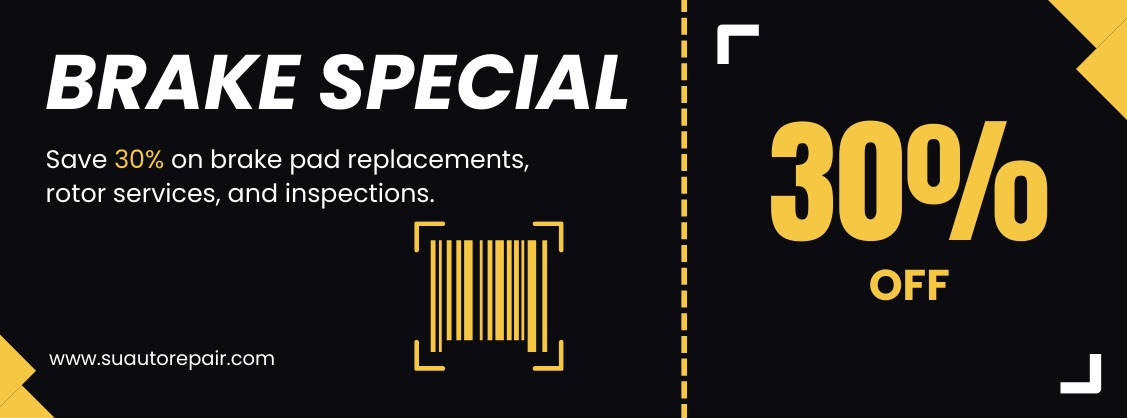
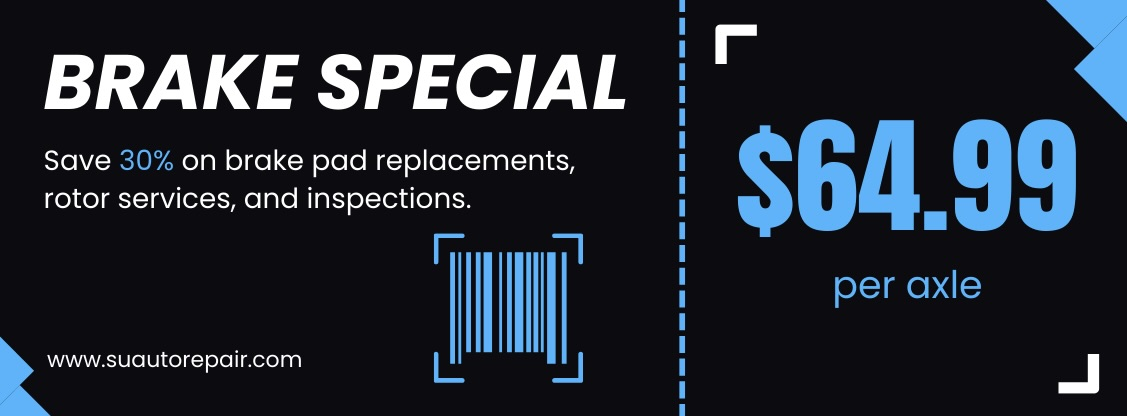
add reviews and update discount

diff --git a/index.js b/index.js
@@ -92,40 +92,40 @@ function closeImageModal() {
 }
 
 // get reviews from google maps
-const apiKey = 'AIzaSyBAXAUWzUuCzyvq3lh7APjS-nRRJ8S_K4Y';
-    const placeId = 'ChIJWyLqWIvnj4AReKlLSIV7sgE';
+// const apiKey = 'AIzaSyBAXAUWzUuCzyvq3lh7APjS-nRRJ8S_K4Y';
+// const placeId = 'ChIJWyLqWIvnj4AReKlLSIV7sgE';
 
-    async function fetchReviews() {
-        try {
-            const response = await fetch(`https://maps.googleapis.com/maps/api/place/details/json?place_id=${placeId}&fields=reviews&key=${apiKey}`);
-            const data = await response.json();
+//     async function fetchReviews() {
+//         try {
+//             const response = await fetch(`https://maps.googleapis.com/maps/api/place/details/json?place_id=${placeId}&fields=reviews&key=${apiKey}`);
+//             const data = await response.json();
 
-            if (data.result && data.result.reviews) {
-                displayReviews(data.result.reviews);
-            } else {
-                document.getElementById('reviews-container').innerText = 'No reviews available';
-            }
-        } catch (error) {
-            console.error('Error fetching reviews:', error);
-        }
-    }
+//             if (data.result && data.result.reviews) {
+//                 displayReviews(data.result.reviews);
+//             } else {
+//                 document.getElementById('reviews-container').innerText = 'No reviews available';
+//             }
+//         } catch (error) {
+//             console.error('Error fetching reviews:', error);
+//         }
+//     }
 
-    function displayReviews(reviews) {
-        const container = document.getElementById('reviews-container');
-        container.innerHTML = '';
+//     function displayReviews(reviews) {
+//         const container = document.getElementById('reviews-container');
+//         container.innerHTML = '';
 
-        reviews.slice(0, 4).forEach(review => {
-            const reviewCard = document.createElement('div');
-            reviewCard.className = 'review-card';
+//         reviews.slice(0, 4).forEach(review => {
+//             const reviewCard = document.createElement('div');
+//             reviewCard.className = 'review-card';
 
-            reviewCard.innerHTML = `
-                <div class="review-author">${review.author_name}</div>
-                <div class="review-rating">${'★'.repeat(review.rating)}${'☆'.repeat(5 - review.rating)}</div>
-                <div class="review-text">${review.text}</div>
-            `;
+//             reviewCard.innerHTML = `
+//                 <div class="review-author">${review.author_name}</div>
+//                 <div class="review-rating">${'★'.repeat(review.rating)}${'☆'.repeat(5 - review.rating)}</div>
+//                 <div class="review-text">${review.text}</div>
+//             `;
 
-            container.appendChild(reviewCard);
-        });
-    }
+//             container.appendChild(reviewCard);
+//         });
+//     }
 
-    fetchReviews();
+//     fetchReviews();

diff --git a/index.html b/index.html
@@ -84,7 +84,6 @@
           <img src="images/oil service coupon.jpeg" alt="Oil Change Discount" />
           <h3>Oil Change Discount</h3>
           <p>Synthetic blend only for <strong>$29.99</strong> (excludes sales tax, disposal fee)</p>
-          <p>Use Code: OIL10</p>
         </div>
         <div
           class="coupon"
@@ -92,18 +91,20 @@
           <img src="images/brake coupon.jpeg" alt="Brake Service Discount" />
           <h3>Brake Service Discount</h3>
           <p><strong>$64.99</strong> per axle, plus parts!</p>
-          <p>Use Code: BRAKE15</p>
         </div>
       </div>
     </section>
-
-    <h2>Google Reviews</h2>
-    <div class="reviews-container" id="reviews-container"></div>
-
     <!-- Image Modal -->
     <div id="imageModal" class="modal" onclick="closeImageModal()">
-      <span class="close">&times;</span>
-      <img class="modal-content" id="modalImage" />
+        <span class="close">&times;</span>
+        <img class="modal-content" id="modalImage" />
+    </div>
+
+    <div class="reviews-container" id="reviews">
+        <h2>Read our reviews!</h2>
+        <div data-instance-id="72TM518SrebLI7Wgr7Qh">
+            <script src="https://reviews.beaver.codes/widget/web-google-reviews.js" async="true"></script>
+        </div>
     </div>
 
     <div class="info-container" id="location">
@@ -128,6 +129,7 @@
             <p>&copy; 2024 Springtown Union Auto Repair. All rights reserved.</p>
           </div>
     </footer>
+
     <script src="index.js"></script>
 </body>
 </html>

diff --git a/styles.css b/styles.css
@@ -11,6 +11,7 @@ body {
     width: 100%;
     overflow-x: hidden;
     color: #333;
+    background-color: #f9f9f9;
 }
 .container {
     display: flex;
@@ -424,34 +425,20 @@ body {
 
 /* reviews */
 .reviews-container {
-    display: flex;
-    flex-wrap: wrap;
-    gap: 20px;
-    justify-content: center;
-}
-.review-card {
-    background: white;
+    flex: 3;
+    margin: 2rem auto;
+    margin-bottom: 20px;
+    padding: 2rem 2rem;
     border-radius: 10px;
-    box-shadow: 0 4px 8px rgba(0, 0, 0, 0.1);
-    width: 250px;
-    padding: 15px;
-    transition: transform 0.2s;
+    background: #fff;
+    box-shadow: 0 4px 8px rgba(0, 0, 0, 0.2);
+    box-sizing: border-box; /* Include padding in width calculations */
+    width: 100%;
+    height: 100%;
+    max-width: 1400px;
+    text-align: center;
 }
-.review-card:hover {
-    transform: translateY(-5px);
-}
-.review-author {
-    font-weight: bold;
-    margin-bottom: 5px;
-}
-.review-rating {
-    color: #FFD700;
-    margin-bottom: 10px;
-}
-.review-text {
-    font-size: 14px;
-    color: #555;
-}
+
 /* Styling for the Info Container */
 .info-container {
     margin-top: 60px;
